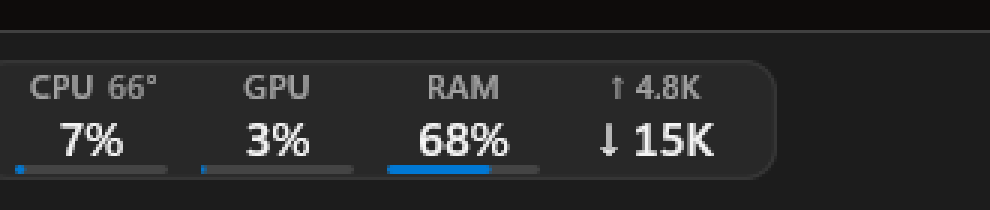
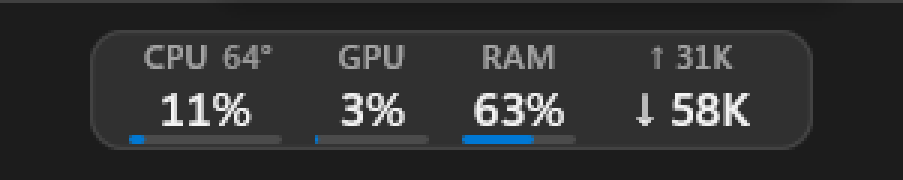
Rewrite README for users and refresh the screenshots

diff --git a/README.md b/README.md
@@ -1,127 +1,92 @@
-# Taskbar Pulse
+<h1 align="center">Taskbar Pulse</h1>
 
-**CPU, GPU, memory, network and CPU temperature, inside your Windows taskbar.**
+<p align="center">
+  <b>CPU, GPU, memory, network and temperature, in your taskbar.</b><br>
+  A 290 KB native widget. No installer, no runtime, no telemetry.
+</p>
 
-One 290 KB executable. No installer, no runtime, no telemetry.
+<p align="center">
+  <img src="https://img.shields.io/badge/platform-Windows%2011-0078D4" alt="Platform">
+  <img src="https://img.shields.io/badge/license-MIT-blue" alt="License">
+</p>
+
+<p align="center">
+  <a href="../../releases/latest">Download</a> ·
+  <a href="#features">Features</a> ·
+  <a href="#benchmarks">Benchmarks</a> ·
+  <a href="#build">Build</a>
+</p>
 
 ![Taskbar Pulse in the taskbar](docs/taskbar.png)
 
-A small native Windows widget that sits in the taskbar next to the notification area. It shows what the machine is doing without a floating window, a Store app or a second panel taking up screen space. There is nothing to install: copy the exe, run it.
-
-## At a glance
-
-| | |
-| --- | --- |
-| Executable | **290 KB**, one file |
-| Private memory | about **9 MB** |
-| CPU use | **about 0.4%** of one core at a 1 s refresh |
-| Installer / runtime / admin | **none** |
-| Network connections | **none** — it reads local counters |
-
 ## Features
 
-- **CPU, GPU and RAM** with fixed-width columns and tabular figures, so the numbers do not dance.
-- **Download and upload** in bytes per second, from the interface Windows actually routes through.
-- **CPU temperature** from the ACPI thermal zone, with no driver.
-- **Per-metric alerts** — each percentage metric has its own warn and critical level; only the one that crosses turns amber or red, and only after holding for 1.5 seconds.
-- **Multi-GPU laptops** — automatic (busiest adapter) or pinned to one GPU.
-- **Taskbar-native** — drag it anywhere along the bar, lock it in place, or switch to borderless for a bare readout.
-- **Follows Windows** — light and dark theme, DPI changes, Explorer restarts, virtual desktops.
-- **Keyboard settings** — Tab, Space/Enter, arrows and Esc; no mouse required.
-- **Quiet** — no telemetry, no network access, no service, no background updates.
+- **CPU, GPU, RAM** — live, with fixed columns so the numbers never dance.
+- **Download and upload** — bytes per second, measured from the interface Windows actually routes through.
+- **CPU temperature** — straight from ACPI, no driver.
+- **Alerts that mean something** — each metric has its own warn and critical level; only the one that crosses changes colour.
+- **Taskbar-native** — drag it anywhere, lock it, go borderless. Follows light/dark, DPI, Explorer restarts and virtual desktops.
+- **Keyboard settings** — Tab, Space/Enter, arrows, Esc.
+- **Nothing behind it** — no telemetry, no network calls, no service, no updates.
 
 ## Benchmarks
 
-Measured on a laptop running Windows 11 26H2 at 1920×1200 and 125% scaling, one minute after launch, with temperatures and network enabled. Private working set comes from `\Process(...)\Working Set - Private`; CPU time was sampled over 20 to 30 seconds.
+Measured on a laptop with Windows 11 26H2 at 1920×1200 and 125% scaling, one minute after launch. Memory is the private working set; CPU time was sampled over 20–30 seconds.
 
 | | Taskbar Pulse | TrafficMonitor 1.86 Lite |
 | --- | --- | --- |
-| Download | **0.28 MB, one exe** | 1.02 MB zip, 1.92 MB exe, 3.17 MB folder |
-| Private working set | **about 9 MB** | 12.0 MB |
-| CPU at one update per second | **about 0.4% of one core** | 0.63% |
-| Installer / runtime | none | none (Lite) |
-| GPU load | yes | yes (Lite 1.86+) |
-| Network speed | yes | yes |
+| Download | **290 KB, one exe** | 1.92 MB exe |
+| Private memory | **about 9 MB** | 12.0 MB |
+| CPU at 1 s | **about 0.4% of one core** | 0.63% |
 | CPU temperature | yes, no admin | plugin, needs admin |
 | Per-metric alerts | yes | no |
 | Multi-GPU pinning | yes | no |
 
-The resource numbers were measured here. The rest of the table is a feature comparison. TrafficMonitor's temperature support has moved to a separate Hardware Monitor plugin, and that plugin needs administrator rights; the Lite build alone does not include temperatures.
+## Why Taskbar Pulse
 
-## Why this instead of the usual options
-
-- **It is part of the taskbar.** Not a floating window, not a Store app, not a full Task Manager window. It uses the strip in front of the notification area and stays out of the way.
-- **The download is one file.** 290 KB, no installer, no runtime, no admin rights, no update service. Copy it, run it, delete it.
-- **It costs less than the alternatives.** About 9 MB and 0.4% of one core, measured above.
-- **Alerts that mean something.** Each metric has its own threshold, and only the metric that crossed changes colour. No whole-widget flashing.
-- **Network speed that does not lie.** It reads one routed interface with 64-bit counters instead of summing filter drivers and virtual adapters — the usual way these numbers get inflated.
-- **Nothing to trust.** No telemetry, no network connections, no service, no hidden background work.
-
-## When another tool is better
-
-- **History graphs, per-core detail or per-process network:** Task Manager or TrafficMonitor.
-- **Skins and a floating window:** TrafficMonitor.
-- **RAM temperature:** Windows does not expose it to user-mode software; tools that show it install a kernel driver.
-- **Disk activity, fan control, overclocking:** a different class of tool entirely.
+- **It lives in the taskbar.** Not a floating window, not a Store app, not another Task Manager. It uses the strip in front of the notification area and stays out of the way.
+- **It is one file.** 290 KB, no installer, no runtime, no admin rights. Copy it, run it, delete it.
+- **It is measured, not claimed.** ~9 MB of RAM and ~0.4% of one core, with the numbers above.
+- **Its network meter does not inflate.** One routed interface, 64-bit counters, no summed filter drivers or virtual adapters.
+- **Nothing to trust.** No telemetry, no network connections, no background service.
 
 ## Install
 
-Download `TaskbarPulse.exe` from the [latest release](../../releases/latest) and run it. That is the whole install.
+Download `TaskbarPulse.exe` from the [latest release](../../releases/latest) and run it. There is no installer.
 
-- On first launch it adds itself to the current user's Run key; turn **Start with Windows** off in Settings to remove it.
-- Settings live in `%APPDATA%\TaskbarPulse\settings.ini`.
-- SmartScreen may warn about an unsigned exe from a new project. Choose **More info → Run anyway**, or build it yourself (below).
+On first launch it adds itself to the current user's Run key; turn **Start with Windows** off in Settings to remove it. Settings live in `%APPDATA%\TaskbarPulse\settings.ini`.
 
-## Using it
+Windows may warn about an unsigned exe from a new project. Choose **More info → Run anyway**, or build it yourself below.
 
-Right-click the widget for its menu. Drag it anywhere along the taskbar; position lock stops accidental drags.
+## Usage
 
-![Menu](docs/menu.png)
+Right-click the widget for the menu; drag it along the taskbar, lock it in place, or make it borderless.
 
-Settings is a separate window and applies changes live.
+<img src="docs/menu.png" width="232" alt="Menu">
 
-![Settings](docs/settings.png)
+The settings window applies changes live:
 
-Keyboard: Tab moves between controls, Space or Enter activates the focused one, Left and Right adjust a stepper or move through a segmented row, Esc closes. With the tray icon focused (Win+B, then arrow keys), Enter opens Settings.
+<img src="docs/settings.png" width="425" alt="Settings">
 
-### Alerts
+Each percentage metric has its own warn and critical level, adjustable in 5% steps. A metric must hold above its level for 1.5 seconds before it turns, and clears 2 points below it, so a spike or a value sitting on the line does not flicker. Only that metric's number and bar change colour.
 
-Each percentage metric has its own warn and critical level, adjustable in 5% steps; the default is 70 and 90. Pick CPU, GPU or RAM in Settings, then adjust its two numbers. A metric must stay above its level for 1.5 seconds before it turns, and clears 2 points below the level, so a one-second spike or a value sitting on the line does not trigger it. Only that metric's number and bar change colour.
+CPU temperature is a thermal-zone reading and is off by default. The network column follows the default-route interface, so it shows the adapter you are actually using; Wi-Fi and Ethernet are never added together.
 
-### Temperature
-
-CPU temperature comes from the ACPI thermal zone and is read once per sample when switched on. It is a zone reading, not a core sensor, so it tracks the package on some laptops and a nearby board sensor on others. It is off by default.
-
-GPU temperature is not shown: reading it would mean loading a vendor runtime or shipping a kernel driver. RAM temperature is not exposed to user-mode software at all, which is why tools that display it install a kernel driver to read the SMBus/SPD hub or the embedded controller.
-
-### Network
-
-The NET column shows upload on the label line and download on the value line, in bytes per second, averaged over the sample interval. It follows the interface Windows routes internet traffic through, re-checked every five seconds, so Wi-Fi, Ethernet and VPN switches are followed. If both Ethernet and Wi-Fi are connected, Windows normally prefers Ethernet and that is what you see; the two are never summed.
-
-The counters are the same interface counters Task Manager graphs, so they include packet headers and retransmissions. Measured against a 20 MiB upload, the interface counted 21,233,168 bytes: 1.25% over the payload. Checked against an independent read of the same counters, 12 to 20 second transfers agreed within 2.5%.
-
-With a full-tunnel VPN the default route moves to the tunnel, so the meter follows it and reports the traffic entering the tunnel — the payload your apps see. With split tunnelling it stays on the physical NIC. A DNS resolver alone changes nothing.
-
-### The Start menu
-
-While Start or Search is open, Windows lifts the taskbar above every top-level window, including always-on-top ones, so the widget is covered until the menu closes. No portable app can draw above it; a plain always-on-top window is covered the same way. The widget is back within a frame of the menu closing.
+Tab moves between controls, Space or Enter activates one, Left and Right adjust a value, and Esc closes. With the tray icon focused (Win+B, arrow keys), Enter opens Settings.
 
 ## Compatibility
 
-Windows 11 22H2 through 26H2 on x64. Windows 10 1809 and later should work, since every API it uses exists there, but it has not been tested. Windows 8.1 and older will not work. There is no ARM64 build.
+Windows 11 22H2 through 26H2 on x64. Windows 10 1809 and later should work, since every API it uses exists there, but it has not been tested. No ARM64 build.
 
-CPU figures are vendor-neutral. GPU usage comes from the WDDM `GPU Engine` counters, so Intel, Intel Arc, AMD and NVIDIA adapters all use the same path, and the GPU list comes from DXGI. On machines where the driver does not expose those counters — some virtual machines and RDP sessions — the GPU column shows `—`.
-
-The widget is a topmost layered window over the taskbar. Windows 11 removed taskbar deskbands, so an overlay is the only supported route.
+GPU usage comes from the WDDM counters, so Intel, Intel Arc, AMD and NVIDIA adapters all work. Where the driver does not expose those counters — some VMs and RDP sessions — the GPU column shows `—`.
 
 ## Known limitations
 
-- If you open enough windows, the centred taskbar buttons can grow under the widget. Drag it elsewhere, hide a metric or lock it in place.
 - Only the primary taskbar is supported.
-- The NET column follows the default-route interface only; a second NIC or a host-only VM network is not added in.
-- If a VPN's virtual adapter publishes no NDIS counters, the NET column shows `—` rather than a number.
+- While Start or Search is open, Windows lifts the taskbar above every top-level window, so the widget is covered until the menu closes. No portable app can draw above it.
+- The network column follows the default-route interface only; a second NIC or a host-only VM network is not added in.
 
-## Build from source
+## Build
 
 Visual Studio with the C++ toolset and the Windows 11 SDK.
 
@@ -129,16 +94,7 @@ Visual Studio with the C++ toolset and the Windows 11 SDK.
 .\build.ps1
 ```
 
-The output is `TaskbarPulse.exe` next to the script. It links the static CRT, so the exe has no runtime dependency.
-
-<details>
-<summary>How it works</summary>
-
-DirectWrite draws into a 32 bpp DIB and `UpdateLayeredWindow` pushes it with per-pixel alpha. The renderer is Direct2D in software mode, which avoids pulling the graphics driver into the process. Metrics are sampled on a worker thread: `GetSystemTimes` for CPU, `GlobalMemoryStatusEx` for memory, the PDH `GPU Engine` counters for load, the ACPI thermal zone for temperature, and `GetBestRoute2` plus `GetIfEntry2` for network. The GPU figure follows Task Manager: sum each engine across processes, cap every engine at 100%, and report the busiest engine. The menu and settings window are drawn by the app, so they keep the same look and do not depend on native control theming.
-
-`DESIGN.md` describes the visual direction.
-
-</details>
+The output is `TaskbarPulse.exe` next to the script, linked against the static CRT so it has no runtime dependency.
 
 ## License
 
